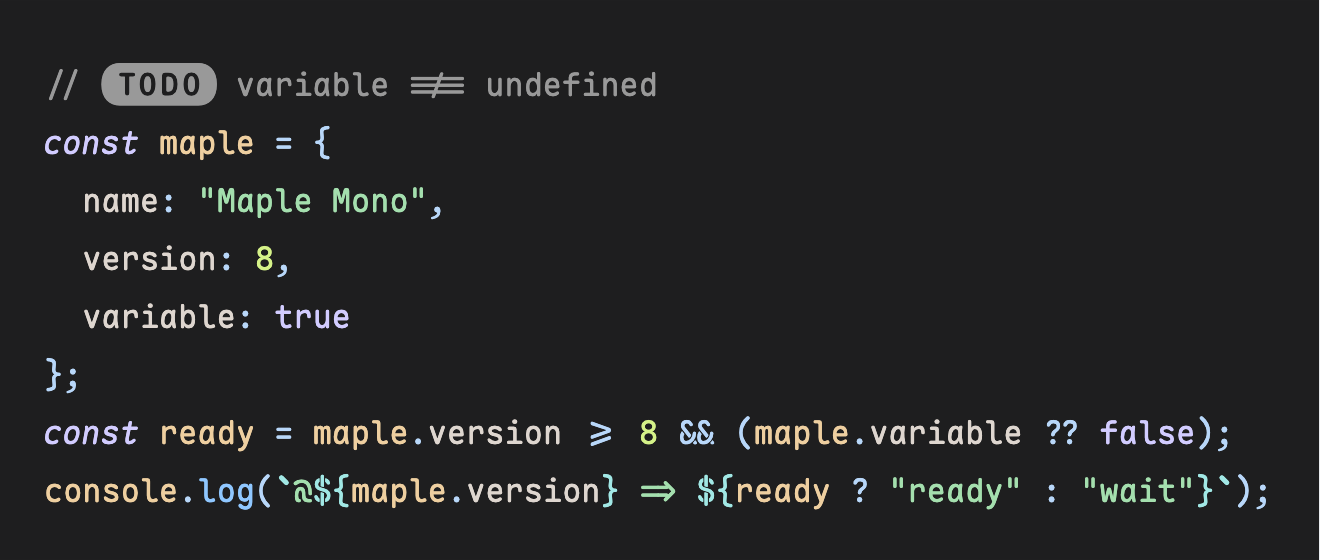
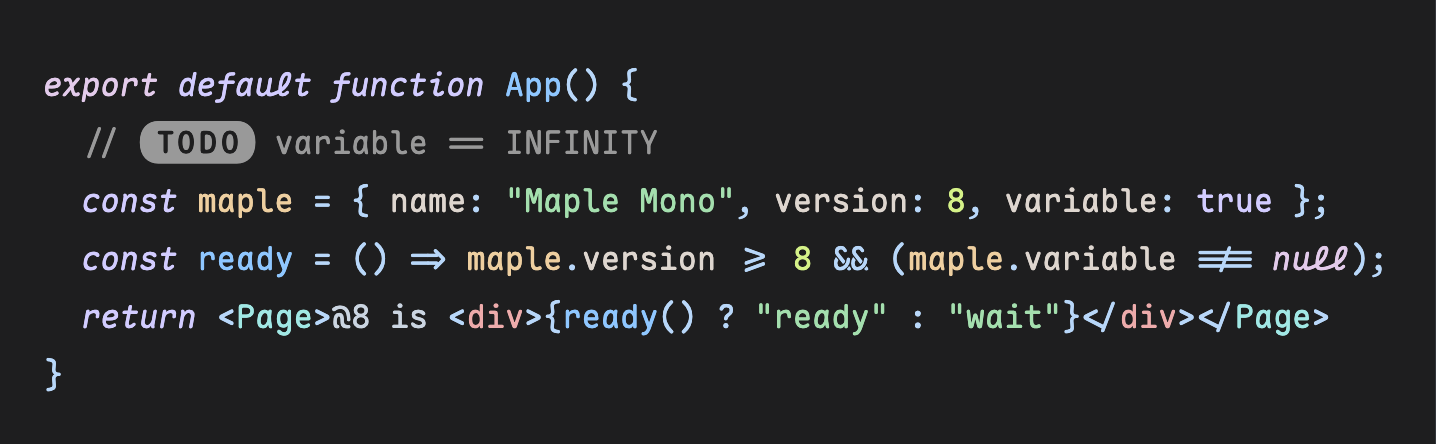
update preview images

diff --git a/README.md b/README.md
@@ -124,7 +124,7 @@ Available modes:
 - narrow: 550
 - slim: 500
 
-[preview#todo]()
+![Width comparison](./resources/preview-widths.webp)
 
 ### OpenType Feature Switches
 
@@ -140,7 +140,7 @@ Maple Mono provides many fine-grained OpenType features. To reduce configuration
 
 Maple Mono's default glyph design is distinctive and personalized, which may not suit every taste or use case. The `--normal` build preset provides glyphs similar to `JetBrains Mono` (`0` has a slash in the middle instead of a dot).
 
-[preview#todo]()
+![Normal preset](./resources/preview-normal.webp)
 
 #### Custom OpenType Features, Such as Status-Label Ligatures
 
@@ -154,7 +154,7 @@ Inspired by Fira Code and Cascadia Code, Maple Mono has supported infinite arrow
 
 Set `"infinite_arrow": true` in `config.json`, or pass `--infinite-arrow` on the command line to force-enable it. Discuss issues in [#508](https://github.com/subframe7536/maple-font/issues/508).
 
-[preview#todo]()
+![Infinite arrow ligatures](./resources/preview-infinite-arrows.webp)
 
 ### Standard Zero Feature
 
@@ -209,7 +209,7 @@ Maple Mono includes Nerd Font icons and follows its naming rules. By default, ea
 
 To customize `font-patcher` arguments, install `fontforge` (and possibly `python3-fontforge`). You may also need to change `"nerd_font.extra_args"` in [config.json](./config.json).
 
-[preview#todo]()
+![Nerd Font spacing modes](./resources/preview-nerd-fonts.webp)
 
 #### Argument Parsing Rules
 
